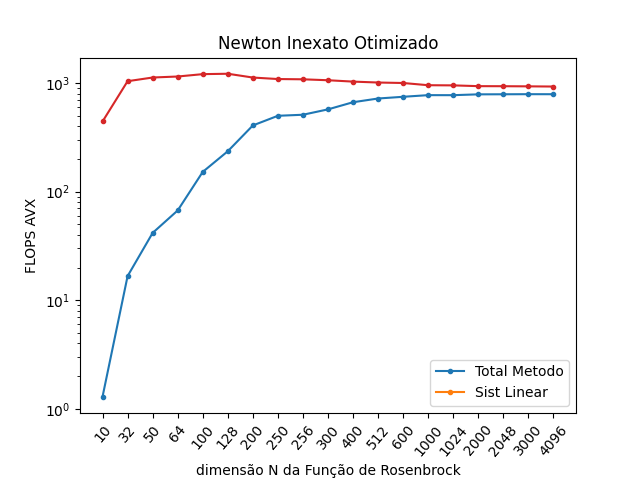
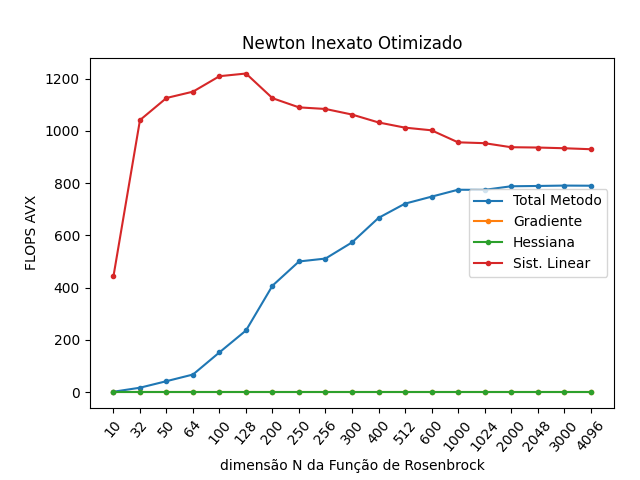
fix graphs

diff --git a/Trab2/plotter.py b/Trab2/plotter.py
@@ -1,4 +1,5 @@
 #!/bin/python3
+from re import T
 import matplotlib.pyplot as plt
 import pandas as pd
 
@@ -29,12 +30,11 @@ pandas[1]: https://pandas.pydata.org/docs/getting_started/intro_tutorials/04_plo
 pyplot[0]: https://matplotlib.org/3.1.1/tutorials/introductory/pyplot.html#sphx-glr-tutorials-introductory-pyplot-py
 """
 
-def plotter(input_file, out_plot, nameMetodo, metrica, log, save_plot, legenda=None):
+def plotter(input_file, out_plot, nameMetodo, metrica, log, save_plot):
     # saida_grafico = open(out_plot, 'w')
     input_csv = open(input_file, 'r')
 
-    if not legenda:
-        legenda = ["Total Metodo", "Gradiente", "Hessiana", "Sist. Linear"]
+    legenda=["Total Metodo", "Gradiente", "Hessiana", "Sist. Linear"]
 
     # diferentes dataframes
     df = pd.read_csv(sep=';', filepath_or_buffer=input_csv)
@@ -50,10 +50,10 @@ def plotter(input_file, out_plot, nameMetodo, metrica, log, save_plot, legenda=N
     # o que vai ser medido
     plt.ylabel(metrica)
     # titulo do grafico
-    plt.title(f'{nameMetodo}')    # nome do grafico gerado, aparece na img dpois
+    plt.title(nameMetodo)    # nome do grafico gerado, aparece na img dpois
 
     # NAO MUDA DAKI PRA BAIXO
-    plt.subplots_adjust(bottom=0.14)
+    plt.subplots_adjust(bottom=0.15, left=0.14, right=0.96)
     plt.xticks(df.index, x[:len(df.index)], rotation=50) # magica em python  
     plt.legend(legenda)
     plt.xlabel("dimensão N da Função de Rosenbrock")
@@ -99,6 +99,7 @@ if __name__ == "__main__":
     FAVXoi= 'data/csvs/OPT_FLOPS_AVX_Inexato.csv'
     
     salve = True
+
     log = True
     metric = 'Tempo de Execução'
     plotter(TnoOptP, 'data/plots/noOpt_tempoPadrao.png', 'Newton Padrao não Otimizado', metric, log, salve)
@@ -106,20 +107,20 @@ if __name__ == "__main__":
     plotter(TOptP, 'data/plots/Opt_tempoPadrao.png.png', 'Newton Padrao Otimizado', metric, log, salve)
     plotter(TOptI, 'data/plots/Opt_tempoInexato.png.png', 'Newton Inexato Otimizado', metric, log, salve)
 
+    log = False
     metric = 'Memory bandwidth [MBytes/s]'
     plotter(L3noOptP, 'data/plots/noOpt_L3Padrao.png', 'Newton Padrao não Otimizado', metric, log, salve)
     plotter(L3noOptI, 'data/plots/noOpt_L3Inexato.png', 'Newton Inexato não Otimizado', metric, log, salve)
     plotter(L3OptP, 'data/plots/Opt_L3Padrao.png', 'Newton Padrao Otimizado', metric, log, salve)
     plotter(L3OptI, 'data/plots/Opt_L3Inexato.png', 'Newton Inexato Otimizado', metric, log, salve)
 
-    log = False
     metric = 'data cache miss ratio'
     plotter(L2P, 'data/plots/noOpt_L2Padrao.png', 'Newton Padrao não Otimizado', metric, log, salve)
     plotter(L2I, 'data/plots/noOpt_L2Inexato.png', 'Newton Inexato não Otimizado', metric, log, salve)
     plotter(L2oP, 'data/plots/Opt_L2Padrao.png', 'Newton Padrao Otimizado', metric, log, salve)
     plotter(L2oI, 'data/plots/Opt_L2Inexato.png', 'Newton Inexato Otimizado', metric, log, salve)
 
-    log = True
+    # log = True
     metric = 'FLOPS DP'
     plotter(FDPp, 'data/plots/noOpt_DP_Padrao.png', 'Newton Padrao não Otimizado', metric, log, salve)
     plotter(FDPi, 'data/plots/noOpt_DP_Inexato.png', 'Newton Inexato não Otimizado', metric, log, salve)
@@ -128,7 +129,7 @@ if __name__ == "__main__":
 
     metric = 'FLOPS AVX'
     leg = ["Total Metodo", "Sist Linear"]
-    plotter(FAVXp, 'data/plots/noOpt_AVX_Padrao.png', 'Newton Padrao não Otimizado', metric, log, salve, leg)
-    plotter(FAVXi, 'data/plots/noOpt_AVX_Inexato.png', 'Newton Inexato não Otimizado', metric, log, salve, leg)
-    plotter(FAVXop, 'data/plots/Opt_AVX_Padrao.png', 'Newton Padrao Otimizado', metric, log, salve, leg)
-    plotter(FAVXoi, 'data/plots/Opt_AVX_Inexato.png', 'Newton Inexato Otimizado', metric, log, salve, leg)
+    plotter(FAVXp, 'data/plots/noOpt_AVX_Padrao.png', 'Newton Padrao não Otimizado', metric, log, salve)
+    plotter(FAVXi, 'data/plots/noOpt_AVX_Inexato.png', 'Newton Inexato não Otimizado', metric, log, salve)
+    plotter(FAVXop, 'data/plots/Opt_AVX_Padrao.png', 'Newton Padrao Otimizado', metric, log, salve)
+    plotter(FAVXoi, 'data/plots/Opt_AVX_Inexato.png', 'Newton Inexato Otimizado', metric, log, salve)
